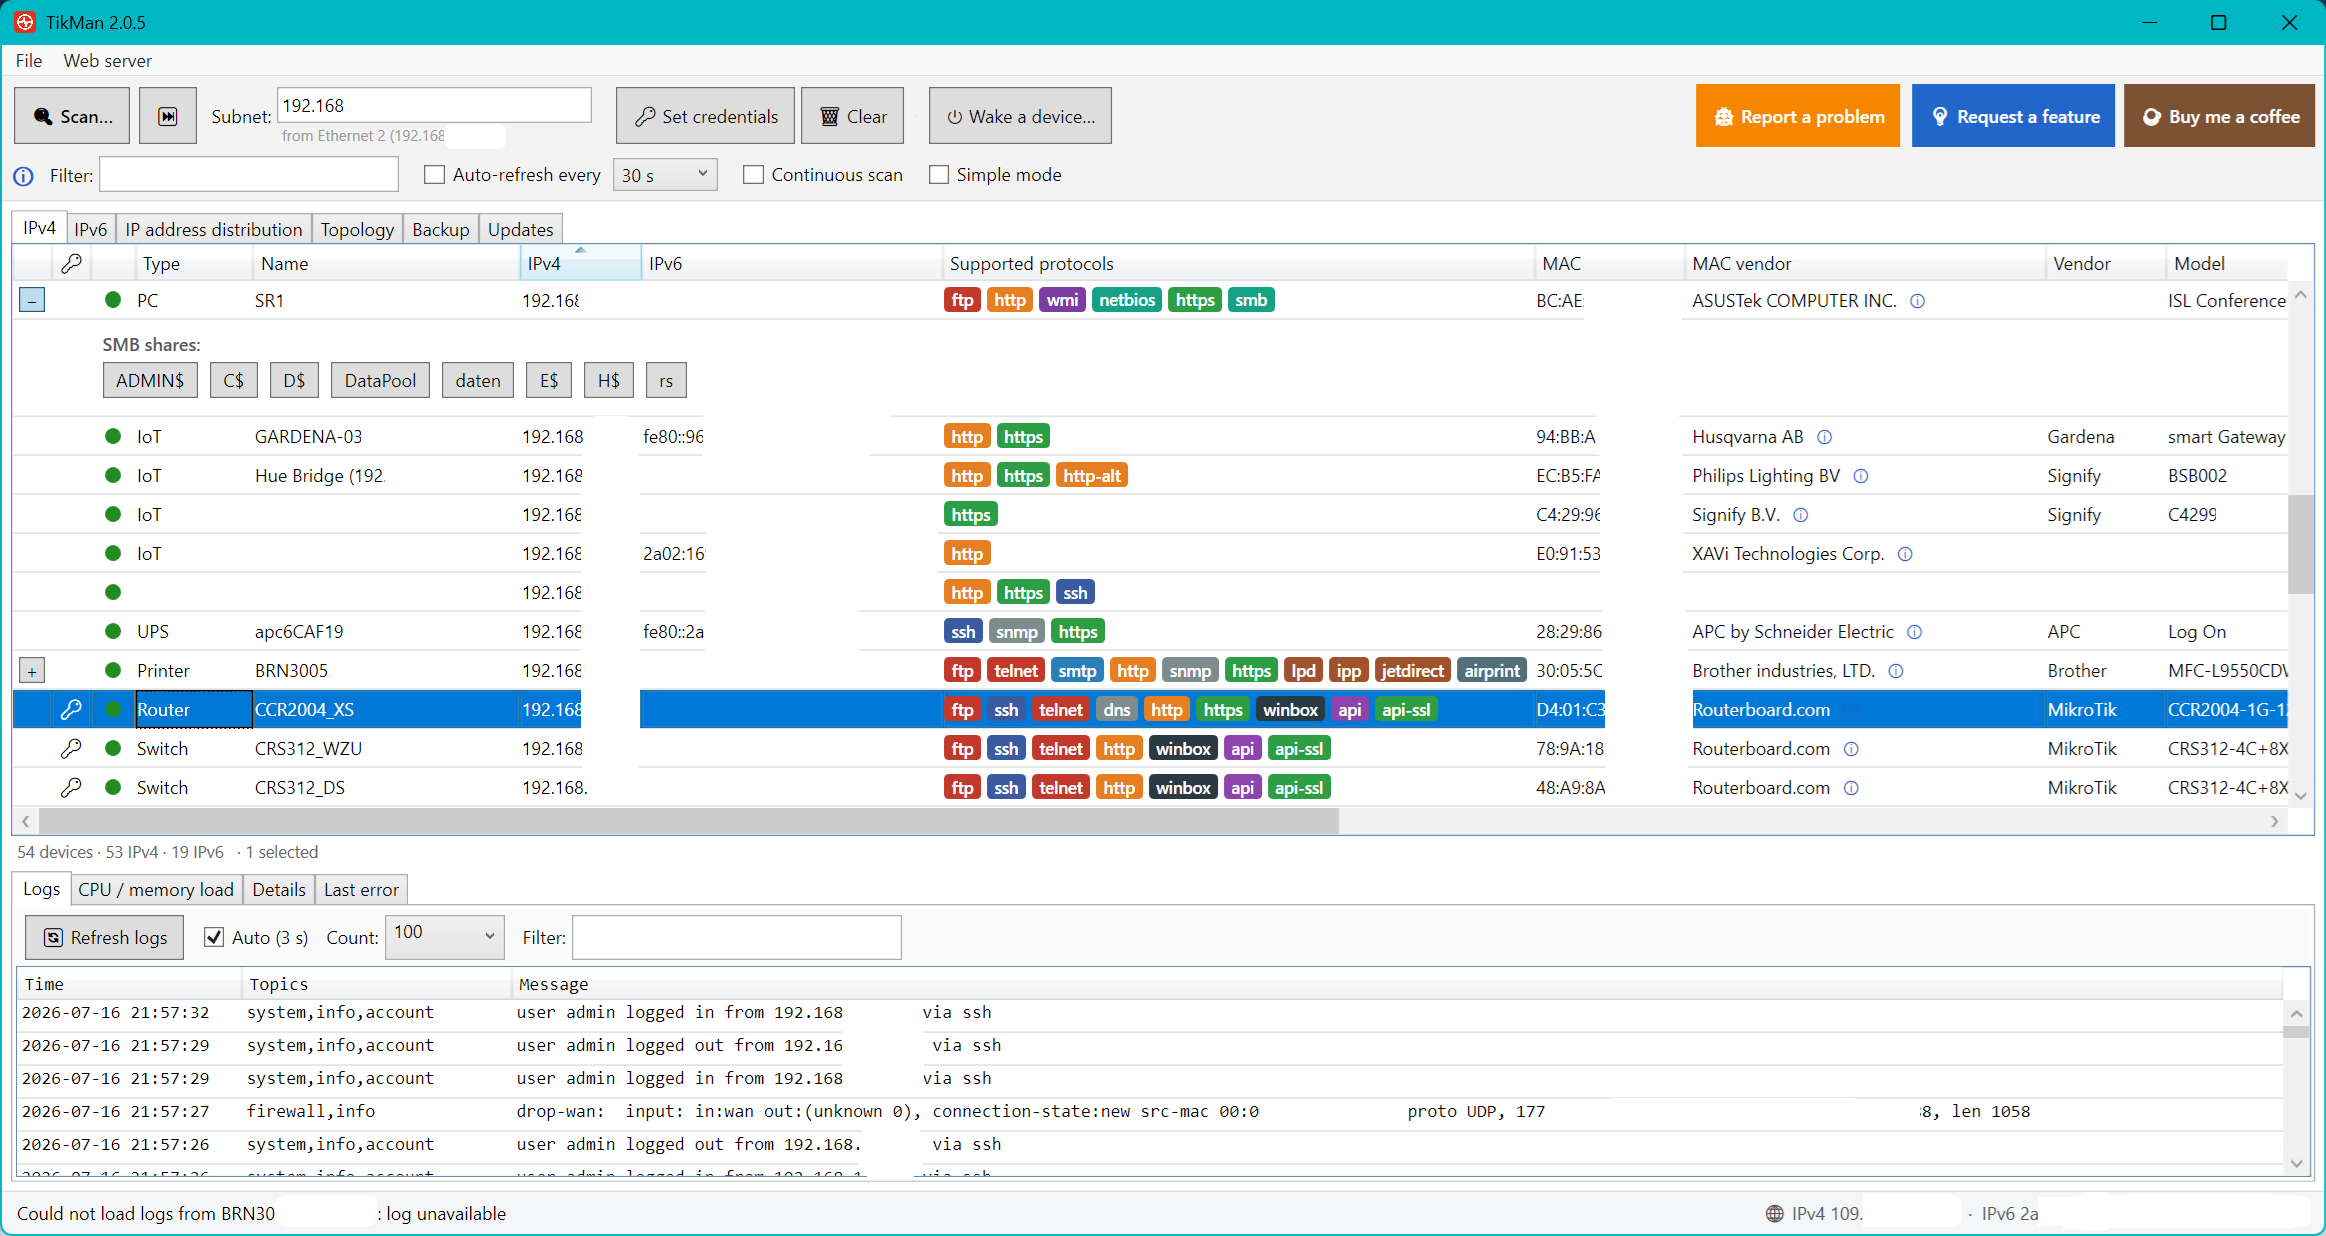
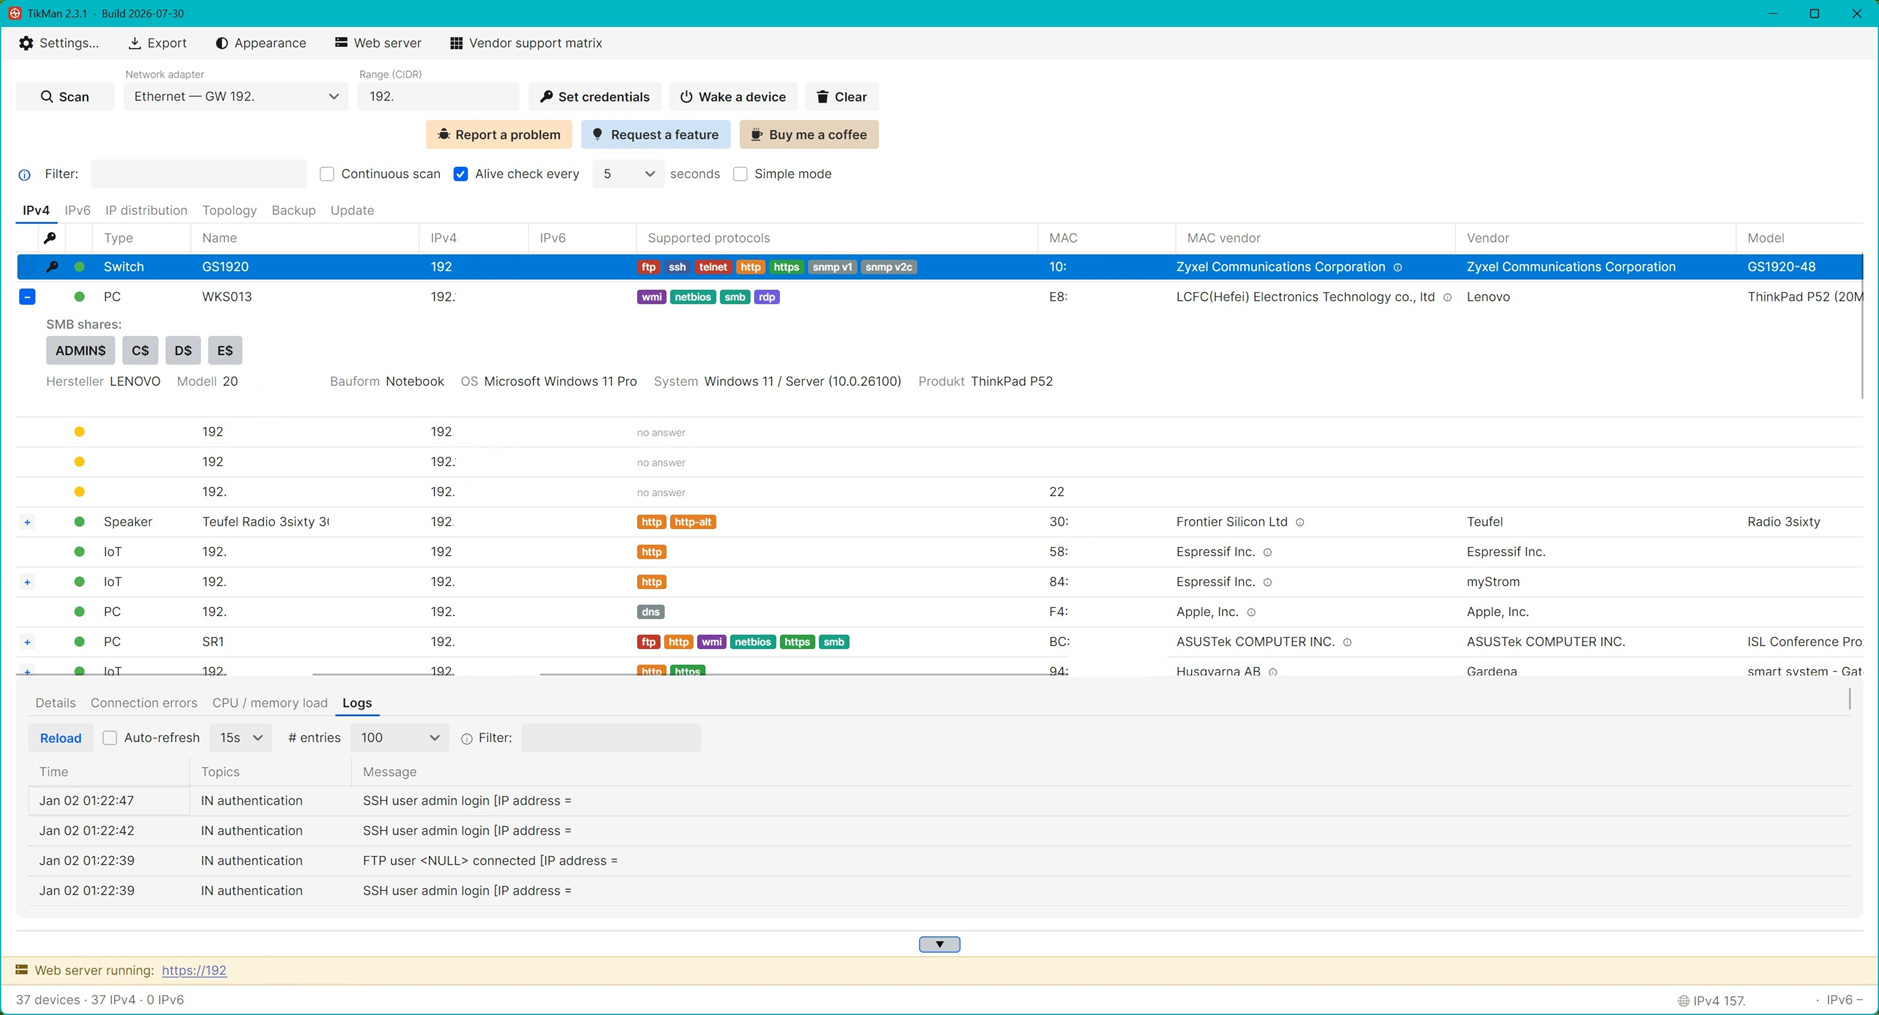
TikMan 2.3.2 – terminal, localisation & release polish
- SSH terminal: apply real carriage-return semantics so a redrawn prompt overwrites its own line
  instead of doubling up ("HOST> HOST>"). Handles a CRLF split across two reads, and caps the output
  buffer so a chatty session doesn't grow without bound.
- Details pane: localise the ExtraInfo labels (Manufacturer / Model / Form factor / Product / …).
  They showed up in German even with the UI in English, because the keys double as the classifier's
  lookup keys – so they're translated on the way to the pane, values untouched.
- Linux AppImage packaging: pass --no-appstream, so packing doesn't abort on a box without
  appstreamcli (minimal build host / WSL).
- Refreshed (redacted) screenshots. Version bumped to 2.3.2.

diff --git a/src/TikMan.Core/Localization/Strings.cs b/src/TikMan.Core/Localization/Strings.cs
@@ -761,6 +761,18 @@ public static class Strings
         ["Av_MonNotSupported"] = "Dieses Gerät liefert keine Auslastungswerte.",
         ["Av_MonInterval"] = "Intervall",
         ["Av_ManualSearch"] = "Manuelle Suche",
+        ["Ik_Manufacturer"] = "Hersteller",
+        ["Ik_ManufacturerWeb"] = "Hersteller (Web)",
+        ["Ik_Model"] = "Modell",
+        ["Ik_FormFactor"] = "Bauform",
+        ["Ik_Product"] = "Produkt",
+        ["Ik_Serial"] = "Seriennummer",
+        ["Ik_HwVersion"] = "Hardware-Version",
+        ["Ik_WebTitle"] = "Web-Titel",
+        ["Ik_WebServer"] = "Webserver",
+        ["Ik_MdnsModel"] = "mDNS-Modell",
+        ["Ik_PrinterShare"] = "Druckerfreigabe",
+        ["Ik_ExtraMac"] = "Weitere MAC",
         ["Av_LogsNotSupported"] = "Protokolle gibt es nur für MikroTik-Geräte mit Login.",
         ["Av_NoErrors"] = "Bisher kein Fehler aufgetreten.",
         ["Av_CountIpv4"] = "{0} IPv4",
@@ -1647,6 +1659,18 @@ public static class Strings
         ["Av_MonNotSupported"] = "This device does not report load values.",
         ["Av_MonInterval"] = "Interval",
         ["Av_ManualSearch"] = "manual search",
+        ["Ik_Manufacturer"] = "Manufacturer",
+        ["Ik_ManufacturerWeb"] = "Manufacturer (web)",
+        ["Ik_Model"] = "Model",
+        ["Ik_FormFactor"] = "Form factor",
+        ["Ik_Product"] = "Product",
+        ["Ik_Serial"] = "Serial number",
+        ["Ik_HwVersion"] = "Hardware version",
+        ["Ik_WebTitle"] = "Web title",
+        ["Ik_WebServer"] = "Web server",
+        ["Ik_MdnsModel"] = "mDNS model",
+        ["Ik_PrinterShare"] = "Printer share",
+        ["Ik_ExtraMac"] = "Additional MAC",
         ["Av_LogsNotSupported"] = "Logs are only available for MikroTik devices with a login.",
         ["Av_NoErrors"] = "No errors so far.",
         ["Av_CountIpv4"] = "{0} IPv4",
@@ -2534,6 +2558,18 @@ public static class Strings
         ["Av_MonNotSupported"] = "Das Grät liferet kei Uslaschtigswärt.",
         ["Av_MonInterval"] = "Intervall",
         ["Av_ManualSearch"] = "Manuelli Suech",
+        ["Ik_Manufacturer"] = "Hersteller",
+        ["Ik_ManufacturerWeb"] = "Hersteller (Web)",
+        ["Ik_Model"] = "Modell",
+        ["Ik_FormFactor"] = "Bauform",
+        ["Ik_Product"] = "Produkt",
+        ["Ik_Serial"] = "Seriänummerä",
+        ["Ik_HwVersion"] = "Hardware-Version",
+        ["Ik_WebTitle"] = "Web-Titel",
+        ["Ik_WebServer"] = "Webserver",
+        ["Ik_MdnsModel"] = "mDNS-Modell",
+        ["Ik_PrinterShare"] = "Druckerfreigab",
+        ["Ik_ExtraMac"] = "Wiiteri MAC",
         ["Av_LogsNotSupported"] = "Protokoll gits nur für MikroTik-Grät mit Login.",
         ["Av_NoErrors"] = "Bishär kein Fähler ufträtä.",
         ["Av_CountIpv4"] = "{0} IPv4",
@@ -3392,6 +3428,18 @@ public static class Strings
         ["Av_MonNotSupported"] = "Este dispositivo no informa valores de carga.",
         ["Av_MonInterval"] = "Intervalo",
         ["Av_ManualSearch"] = "Búsqueda manual",
+        ["Ik_Manufacturer"] = "Fabricante",
+        ["Ik_ManufacturerWeb"] = "Fabricante (web)",
+        ["Ik_Model"] = "Modelo",
+        ["Ik_FormFactor"] = "Formato",
+        ["Ik_Product"] = "Producto",
+        ["Ik_Serial"] = "Número de serie",
+        ["Ik_HwVersion"] = "Versión de hardware",
+        ["Ik_WebTitle"] = "Título web",
+        ["Ik_WebServer"] = "Servidor web",
+        ["Ik_MdnsModel"] = "Modelo mDNS",
+        ["Ik_PrinterShare"] = "Recurso de impresora",
+        ["Ik_ExtraMac"] = "MAC adicional",
         ["Av_LogsNotSupported"] = "Los registros solo están disponibles para dispositivos MikroTik con inicio de sesión.",
         ["Av_NoErrors"] = "No ha habido errores hasta ahora.",
         ["Av_CountIpv4"] = "{0} IPv4",
@@ -4250,6 +4298,18 @@ public static class Strings
         ["Av_MonNotSupported"] = "Questo dispositivo non riporta valori di carico.",
         ["Av_MonInterval"] = "Intervallo",
         ["Av_ManualSearch"] = "Ricerca manuale",
+        ["Ik_Manufacturer"] = "Produttore",
+        ["Ik_ManufacturerWeb"] = "Produttore (web)",
+        ["Ik_Model"] = "Modello",
+        ["Ik_FormFactor"] = "Formato",
+        ["Ik_Product"] = "Prodotto",
+        ["Ik_Serial"] = "Numero di serie",
+        ["Ik_HwVersion"] = "Versione hardware",
+        ["Ik_WebTitle"] = "Titolo web",
+        ["Ik_WebServer"] = "Server web",
+        ["Ik_MdnsModel"] = "Modello mDNS",
+        ["Ik_PrinterShare"] = "Condivisione stampante",
+        ["Ik_ExtraMac"] = "MAC aggiuntivo",
         ["Av_LogsNotSupported"] = "I registri sono disponibili solo per dispositivi MikroTik con accesso.",
         ["Av_NoErrors"] = "Nessun errore finora.",
         ["Av_CountIpv4"] = "{0} IPv4",
@@ -5108,6 +5168,18 @@ public static class Strings
         ["Av_MonNotSupported"] = "Cet appareil ne fournit pas de valeurs de charge.",
         ["Av_MonInterval"] = "Intervalle",
         ["Av_ManualSearch"] = "Recherche manuelle",
+        ["Ik_Manufacturer"] = "Fabricant",
+        ["Ik_ManufacturerWeb"] = "Fabricant (web)",
+        ["Ik_Model"] = "Modèle",
+        ["Ik_FormFactor"] = "Format",
+        ["Ik_Product"] = "Produit",
+        ["Ik_Serial"] = "Numéro de série",
+        ["Ik_HwVersion"] = "Version matérielle",
+        ["Ik_WebTitle"] = "Titre web",
+        ["Ik_WebServer"] = "Serveur web",
+        ["Ik_MdnsModel"] = "Modèle mDNS",
+        ["Ik_PrinterShare"] = "Partage d'imprimante",
+        ["Ik_ExtraMac"] = "MAC supplémentaire",
         ["Av_LogsNotSupported"] = "Les journaux ne sont disponibles que pour les appareils MikroTik avec identifiants.",
         ["Av_NoErrors"] = "Aucune erreur jusqu’à présent.",
         ["Av_CountIpv4"] = "{0} IPv4",
@@ -5966,6 +6038,18 @@ public static class Strings
         ["Av_MonNotSupported"] = "Este dispositivo não fornece valores de carga.",
         ["Av_MonInterval"] = "Intervalo",
         ["Av_ManualSearch"] = "Pesquisa manual",
+        ["Ik_Manufacturer"] = "Fabricante",
+        ["Ik_ManufacturerWeb"] = "Fabricante (web)",
+        ["Ik_Model"] = "Modelo",
+        ["Ik_FormFactor"] = "Formato",
+        ["Ik_Product"] = "Produto",
+        ["Ik_Serial"] = "Número de série",
+        ["Ik_HwVersion"] = "Versão de hardware",
+        ["Ik_WebTitle"] = "Título web",
+        ["Ik_WebServer"] = "Servidor web",
+        ["Ik_MdnsModel"] = "Modelo mDNS",
+        ["Ik_PrinterShare"] = "Compart. de impressora",
+        ["Ik_ExtraMac"] = "MAC adicional",
         ["Av_LogsNotSupported"] = "Os registos só estão disponíveis para dispositivos MikroTik com início de sessão.",
         ["Av_NoErrors"] = "Sem erros até agora.",
         ["Av_CountIpv4"] = "{0} IPv4",

diff --git a/src/TikMan.App.Avalonia/TerminalWindow.axaml.cs b/src/TikMan.App.Avalonia/TerminalWindow.axaml.cs
@@ -37,15 +37,70 @@ public partial class TerminalWindow : Window
     private TextBox? InputBox => this.FindControl<TextBox>("Input");
     private TextBox? OutputBox => this.FindControl<TextBox>("Output");
 
+    // The console so far, kept as completed lines plus the line currently being drawn. Held here (not read
+    // back off the TextBox) so carriage-return redraws can be applied – see Append.
+    private readonly StringBuilder _committed = new();
+    private readonly StringBuilder _line = new();
+    private bool _pendingCr; // a chunk ended on a bare '\r'; whether it's CRLF or a redraw depends on the next
+    private const int MaxChars = 400_000; // cap so a chatty session doesn't grow without bound
+
     private void OnData(byte[] data)
     {
         var text = Clean(Encoding.UTF8.GetString(data));
         Dispatcher.UIThread.Post(() =>
         {
+            Append(text);
             if (OutputBox is not { } box) return;
-            box.Text += text;
-            box.CaretIndex = box.Text?.Length ?? 0; // keeps the newest output in view
+            box.Text = _committed.ToString() + _line;
+            box.CaretIndex = box.Text.Length; // keeps the newest output in view
         });
+    }
+
+    /// <summary>Applies a terminal's carriage-return / newline behaviour to the incoming text.
+    /// <para>⚠ This is the fix for the prompt showing up twice on one line ("HOST&gt; HOST&gt;"). A device
+    /// redraws its prompt with a bare CR (return to column 0, next characters overwrite); the old code just
+    /// deleted every <c>\r</c>, so the redraw piled up next to the old prompt instead of replacing it. Here a
+    /// bare CR clears the current line so the redraw overwrites it, while CRLF and a lone LF both end the
+    /// line.</para></summary>
+    private void Append(string text)
+    {
+        var i = 0;
+        // Resolve a '\r' that ended the previous chunk now that the next character is known: '\n' after it
+        // makes it a CRLF (one newline), anything else makes it a bare-CR redraw (overwrite the line).
+        if (_pendingCr)
+        {
+            _pendingCr = false;
+            if (text.Length > 0 && text[0] == '\n') { CommitLine(); i = 1; }
+            else _line.Clear();
+        }
+        for (; i < text.Length; i++)
+        {
+            var c = text[i];
+            if (c == '\r')
+            {
+                if (i + 1 < text.Length)
+                {
+                    if (text[i + 1] == '\n') { CommitLine(); i++; } // CRLF = one newline
+                    else _line.Clear();                             // bare CR = overwrite
+                }
+                else _pendingCr = true;                             // CR at the very end: decide next chunk
+            }
+            else if (c == '\n') CommitLine();
+            else _line.Append(c);
+        }
+    }
+
+    private void CommitLine()
+    {
+        _committed.Append(_line).Append('\n');
+        _line.Clear();
+        if (_committed.Length > MaxChars)
+        {
+            // Trim from the front on a line boundary, so nothing reads as cut mid-word.
+            var s = _committed.ToString();
+            var cut = s.IndexOf('\n', s.Length - MaxChars);
+            if (cut >= 0) { _committed.Clear(); _committed.Append(s, cut + 1, s.Length - cut - 1); }
+        }
     }
 
     private void OnInputKey(object? sender, KeyEventArgs e)
@@ -58,8 +113,9 @@ public partial class TerminalWindow : Window
         e.Handled = true;
     }
 
-    /// <summary>Strips ANSI/VT control so the console stays readable: CSI colour/cursor sequences, the
-    /// bracketed-paste toggles, and lone carriage returns (RouterOS redraws its prompt with them).</summary>
+    /// <summary>Strips ANSI/VT control so the console stays readable: CSI colour/cursor sequences and the
+    /// charset/bracketed-paste toggles. ⚠ Carriage returns are deliberately KEPT now – <see cref="Append"/>
+    /// applies their overwrite semantics, which is what stops a redrawn prompt from doubling up.</summary>
     private static string Clean(string s) =>
-        Regex.Replace(s, @"\x1b\[[0-9;?]*[A-Za-z]|\x1b[()][A-Z0-9]|\x1b[=>]", "").Replace("\r", "");
+        Regex.Replace(s, @"\x1b\[[0-9;?]*[A-Za-z]|\x1b[()][A-Z0-9]|\x1b[=>]", "");
 }

diff --git a/src/TikMan.Core/Fleet/InfoKeyLabels.cs b/src/TikMan.Core/Fleet/InfoKeyLabels.cs
@@ -1,0 +1,32 @@
+using System.Collections.Generic;
+using static TikMan.Core.Localization.LocalizationManager;
+
+namespace TikMan.Core.Fleet;
+
+/// <summary>Turns the internal ExtraInfo dictionary keys – which are German, because they double as lookup
+/// keys the classifier reads (<c>ExtraInfo["Modell"]</c>, <c>["Hersteller (Web)"]</c> …) – into a localised
+/// label for display in the details pane. The keys themselves can't just be renamed without touching every
+/// place that reads them, so the translation happens once, on the way to the UI.
+/// <para>Keys that read the same in every language (Firmware, OS, SNMP, System, Version) aren't in the map
+/// and pass through unchanged.</para></summary>
+public static class InfoKeyLabels
+{
+    private static readonly Dictionary<string, string> ToLocKey = new()
+    {
+        ["Hersteller"] = "Ik_Manufacturer",
+        ["Hersteller (Web)"] = "Ik_ManufacturerWeb",
+        ["Modell"] = "Ik_Model",
+        ["Bauform"] = "Ik_FormFactor",
+        ["Produkt"] = "Ik_Product",
+        ["Seriennummer"] = "Ik_Serial",
+        ["Hardware-Version"] = "Ik_HwVersion",
+        ["Web-Titel"] = "Ik_WebTitle",
+        ["Webserver"] = "Ik_WebServer",
+        ["mDNS-Modell"] = "Ik_MdnsModel",
+        ["Druckerfreigabe"] = "Ik_PrinterShare",
+        ["Weitere MAC"] = "Ik_ExtraMac",
+    };
+
+    /// <summary>The localised label for an ExtraInfo key, or the key itself when it needs no translation.</summary>
+    public static string Localize(string key) => ToLocKey.TryGetValue(key, out var locKey) ? T(locKey) : key;
+}

diff --git a/src/TikMan.Core/Fleet/FleetService.cs b/src/TikMan.Core/Fleet/FleetService.cs
@@ -2523,7 +2523,11 @@ public sealed class FleetService
         return new(
         WebId(d), Display(d), v4, d.MacAddress, Vendor(d), Kind(d), KindWithVm(d), Model(d),
         StatusText(d), Gateways().Contains(d.Host), d.EncryptedPassword.Length > 0,
-        VncPort(d), d.Username, d.ExtraInfo.Select(kv => new KeyValuePair<string, string>(kv.Key, kv.Value)).ToList(),
+        VncPort(d), d.Username,
+        // ⚠ The ExtraInfo keys are German (they double as classifier lookup keys), so localise them here on
+        // the way to the details pane – otherwise "Hersteller/Modell/Bauform/Produkt" show up even when the
+        // UI language is English. Values are device data and stay as-is.
+        d.ExtraInfo.Select(kv => new KeyValuePair<string, string>(InfoKeyLabels.Localize(kv.Key), kv.Value)).ToList(),
         v6.Distinct().ToList(),
         IsMikroTik(d) || IsZyxelSwitch(d) || IsTpLink(d), IsMikroTik(d), IsMikroTik(d), CanReadLogs(d),
         _loginFailure.TryGetValue(WebId(d), out var le) ? le : "",
